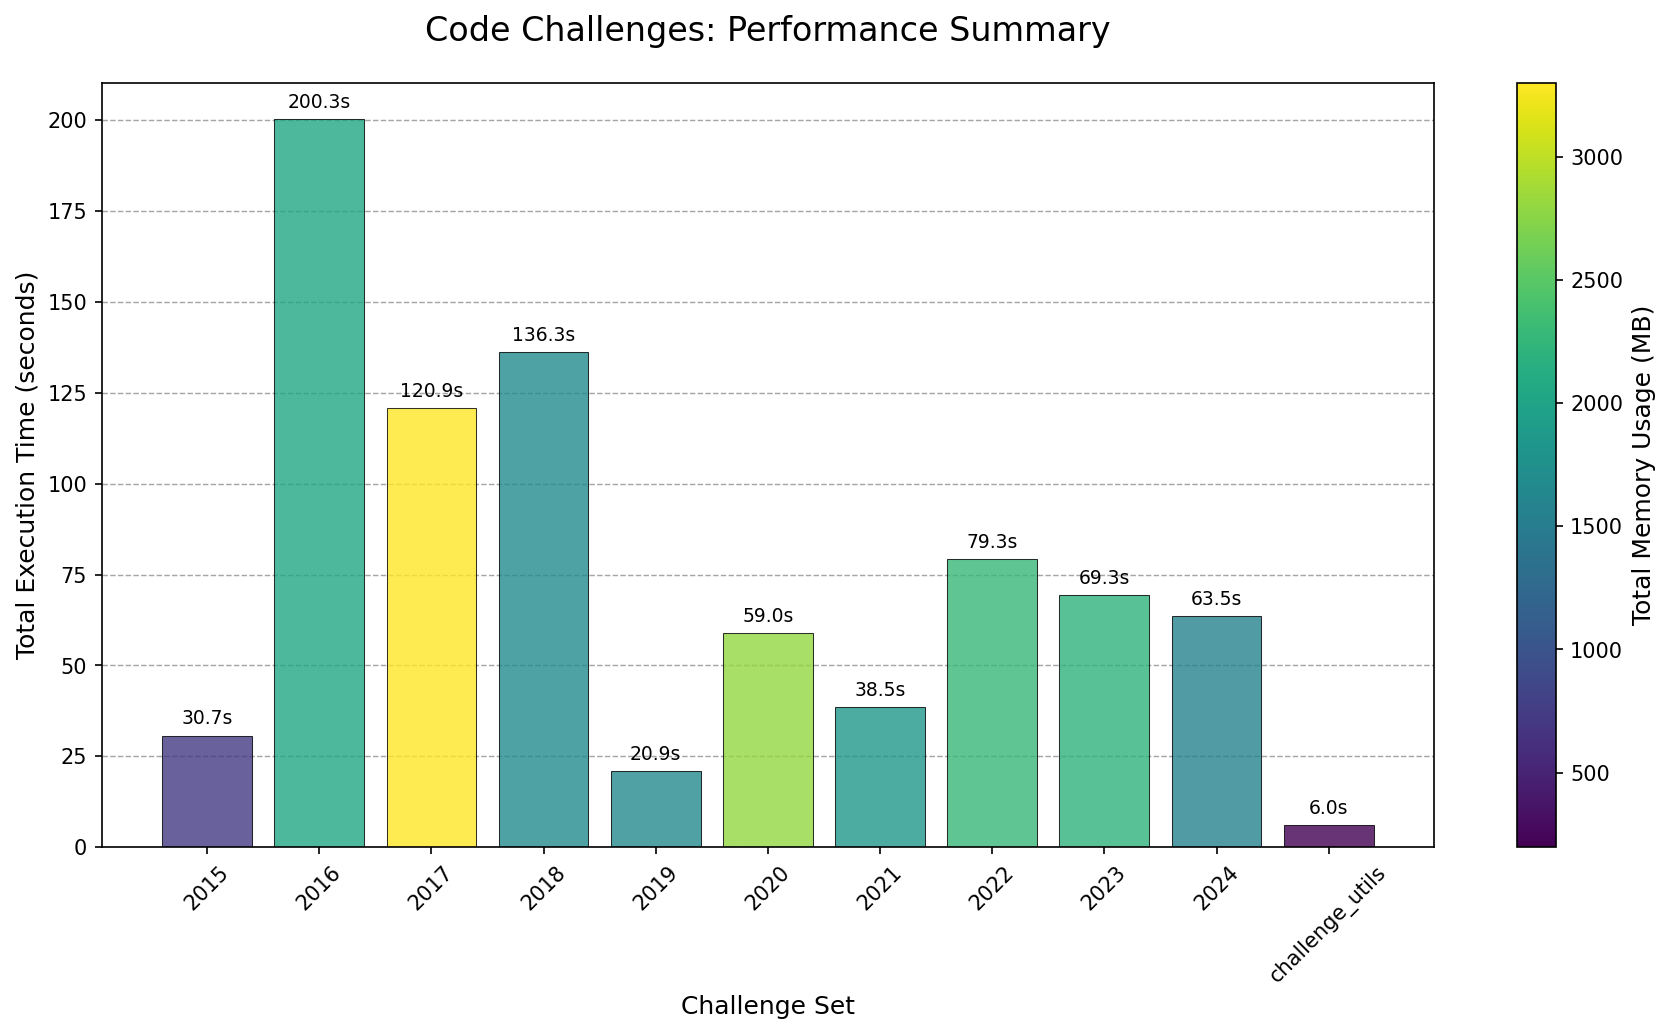
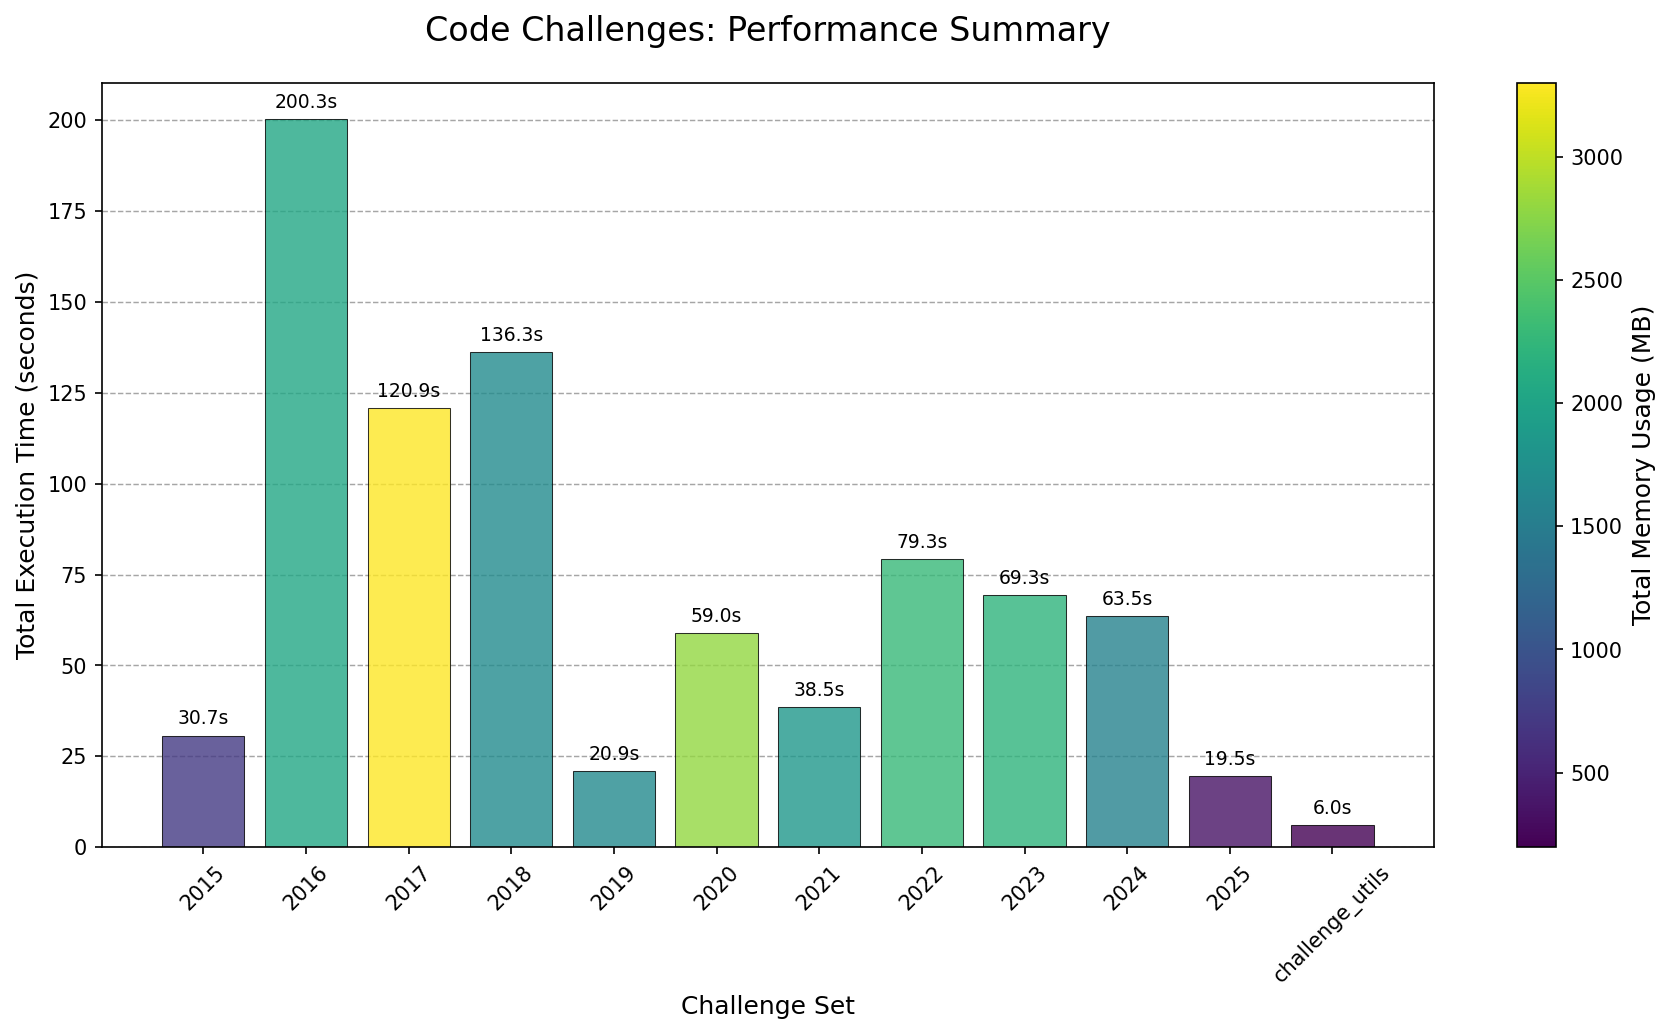
AOC 2025 Day 12: Christmas Tree Farm (DONE!!!)

diff --git a/2025/12/2025Day12.py b/2025/12/2025Day12.py
@@ -1,0 +1,45 @@
+"""Advent of Code - Day 12, Year 2025
+Solution Started: December 12, 2025
+Puzzle Link: https://adventofcode.com/2025/day/12
+Solution by: Abbas Moosajee
+Brief: [Christmas Tree Farm]"""
+
+#!/usr/bin/env python3
+from pathlib import Path
+from collections import defaultdict
+from math import prod
+
+# Load input file
+input_file = "Day12_input.txt"
+input_path = Path(__file__).parent / input_file
+
+with input_path.open("r", encoding="utf-8") as f:
+    data = f.read().split("\n\n")
+
+class AOC_Farm:
+    def __init__(self, input_text):
+        self.shape_counts = {}
+        self.regions = []
+
+        for grouped_data in input_text:
+            if "#" in grouped_data:
+                grouped_data = grouped_data.split("\n")
+                index_no = int(grouped_data[0].strip(":"))
+                present_shape = [list(row) for row in grouped_data[1:]]
+                self.shape_counts[index_no] = sum(row.count('#') for row in present_shape)
+            else:
+                for regiod_data in grouped_data.split("\n"):
+                    region_size, presents_needed = regiod_data.split(":")
+                    presents_needed = tuple(map(int, presents_needed.split()))
+                    region_size = tuple(map(int, region_size.split("x")))
+                    self.regions.append((region_size, presents_needed))
+
+    def fit_all_presents(self) -> int:
+        total_presents = 0
+        for region_size, num_shapes in self.regions:
+            needed = sum(self.shape_counts[id] * n for id, n in enumerate(num_shapes))
+            if prod(region_size) >= needed:
+                total_presents += 1
+        return total_presents
+
+print("AOC Day 12, P1:", AOC_Farm(data).fit_all_presents())

diff --git a/README.md b/README.md
@@ -20,6 +20,7 @@ In this repository, you’ll find:
 ## How to Use
 | Year | Stars | Time (s) | Languages        | Repository |
 |------|-------|-----------------|------------------|------------|
+| 2025 |24\*   |19.48 s |Python| [GitHub](https://github.com/abbasmoosajee07/AdventofCode/tree/main/2025) |
 | 2024 |50\*   |64.63 s |Julia/Python/Ruby| [GitHub](https://github.com/abbasmoosajee07/AdventofCode/tree/main/2024) |
 | 2023 |50\*    |69.18 s|Python\Ruby| [GitHub](https://github.com/abbasmoosajee07/AdventofCode/tree/main/2023) |
 | 2022 | 50\*  |107.55 s|Julia/Python/Ruby| [GitHub](https://github.com/abbasmoosajee07/AdventofCode/tree/main/2022) |
@@ -30,6 +31,6 @@ In this repository, you’ll find:
 | 2017 | 50\*  |131.25 s| Python/Ruby/C    | [GitHub](https://github.com/abbasmoosajee07/AdventofCode/tree/main/2017) |
 | 2016 | 50\*  |264.24 s| Python/Ruby/C    | [GitHub](https://github.com/abbasmoosajee07/AdventofCode/tree/main/2016) |
 | 2015 | 50\*  |530.01 s| Python/Ruby/C/R  | [GitHub](https://github.com/abbasmoosajee07/AdventofCode/tree/main/2015) |
-| **Total** | **500\*** |                 |                  |            |
+| **Total** | **524\*** |                 |                  |            |
 
-![alt text](analyse_AOC/overall_summary.png)
+![Overall Summary](analyse_AOC/overall_summary.png)

diff --git a/2025/README_2025.md b/2025/README_2025.md
@@ -15,3 +15,6 @@ This repository contains coding solutions for the 2025 Advent of Code.
 9. **Day 9 - Movie Theater**: *Python* | Identify the largest rectangles by area from a s group of coordinates.
 10. **Day 10 - Factory**: *Python* | BFS for buttons, and then add some z3 in
 11. **Day 11 - Reactor**: *Python* | BFS with nodes and networks and then add a bitmask for counting.
+12. **Day 12 - Christmas Tree Farm**: *Python* | Fitting a specific shape into a an empty square spaced region.
+
+![2025 AOC Advent Calendar](2025_Advent_Calendar.png)
